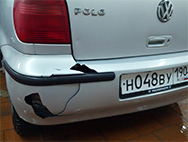
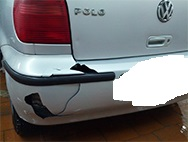
delete stupid rusian name

Changed region(s): [[0.5851, 0.3662, 1.0, 0.7606]]

diff --git a/homework.14/index.html b/homework.14/index.html
@@ -149,14 +149,14 @@
         <h2 class="h2">как вы <span class="yellow">экономите?</span></h2>
         <div class="left-block">
             <p>ремонт бампера стоит от</p>
-            <p class="cost"><span class="yellow">6000</span> рублей</p>
+            <p class="cost"><span class="yellow">6000</span> гривень</p>
             <img src="img/girl-in-car.jpg" alt="" class="full-width">
             <img src="img/broken-car1.jpg" alt="" class="half-width">
             <img src="img/broken-car2.jpg" alt="" class="half-width">
         </div>
         <div class="right-block">
             <p>Видеопарктроник с подарком стоит</p>
-            <p class="cost"><span class="yellow">3990</span> рублей</p>
+            <p class="cost"><span class="yellow">3990</span> гривень</p>
             <img src="img/product.jpg" alt="" class="full-width small-height-fix">
             <span class="plus yellow">+</span>
             <img src="img/gift.jpg" alt="" class="full-width">
@@ -186,8 +186,8 @@
                     зеркало
                     любой машины, вообщем то что доктор прописал!
                 </p>
-                <div class="review-author"><img src="img/review1-ava.jpg" alt="" class="ava"><b>Константин</b><i>г.
-                    Днепропетровск</i></div>
+                <div class="review-author"><img src="img/review1-ava.jpg" alt="" class="ava"><b>Константин</b><i> м.
+                    Дніпро</i></div>
             </div>
         </div>
         <img src="img/arrow-right.png" alt="" class="arrow-right">
@@ -215,20 +215,20 @@
             </div>
         </div>
         <div class="left-block">
-            <h4 class="h4">доставка и оплата по россии</h4>
+            <h4 class="h4">доставка и оплата по кацапії</h4>
             <ul>
                 <li>Стоимость доставки зависит от Вашего региона-города</li>
-                <li>Доставка почтой РФ 1 классом от 300 грн. EMS Курьер от 600 грн.</li>
+                <li>Доставка почтой ** 1 классом от 300 грн. EMS Курьер от 600 грн.</li>
                 <li>Все заказы отправляем с описью вложения</li>
                 <li>Сроки доставки от 3 до 7 дней.</li>
                 <li>Оплата производится при получении товара.</li>
             </ul>
         </div>
         <div class="right-block">
-            <h4 class="h4">Доставка и оплата по москве и спб</h4>
+            <h4 class="h4">Доставка и оплата по болотах и спб</h4>
             <ul>
-                <li>Курьером по Москве от 250 грн.</li>
-                <li>Курьером по Санкт Петербургу от 200 грн.</li>
+                <li>Курьером по ****** от 250 грн.</li>
+                <li>Курьером ******** от 200 грн.</li>
                 <li>Сроки доставки 1-2 дня.</li>
                 <li>Вы также можете забрать и оплатить свой заказ в пункте
                     самовывоза. Стоимость 100 грн.
